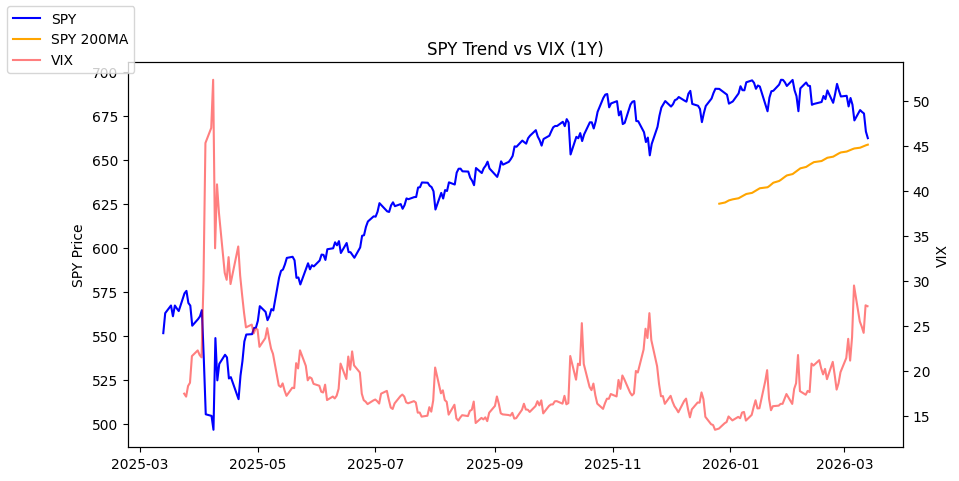
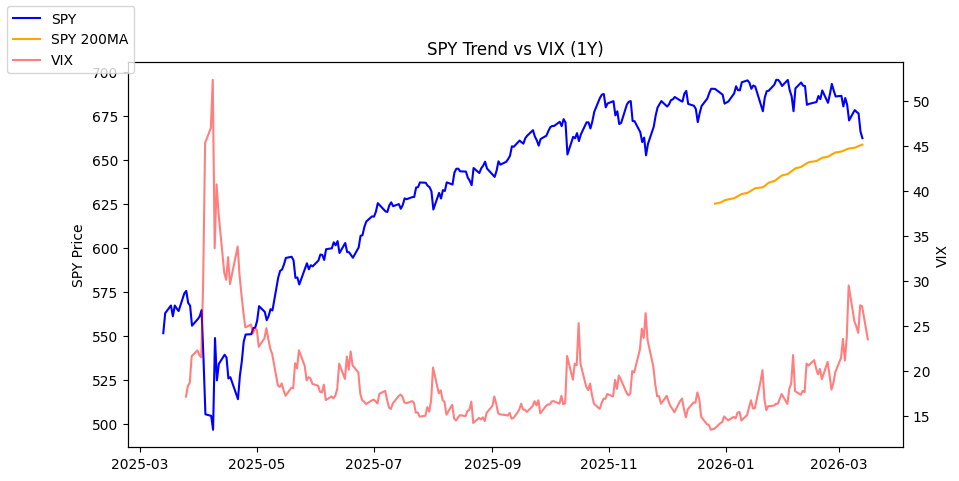
Update market summary

diff --git a/README.md b/README.md
@@ -1,12 +1,14 @@
 
 # Market Risk Monitor
 
+![Status](https://img.shields.io/badge/Market%20Regime-yellow-yellow)
+
 ⚠ **Disclaimer**
 
 This project is an experimental data pipeline and educational demonstration.
 It is **not financial advice**. The signals and AI commentary are generated
 automatically from public market data and may be incomplete, delayed, or
-incorrect. Do not make investment decisions based upon any data, display, words or summary in this repository.
+incorrect. Do not make investment decisions based solely on this repository.
 
 Last Updated: 2026-03-17
 
@@ -15,22 +17,19 @@ Last Updated: 2026-03-17
 
 ## AI Risk Commentary
 
-Risk commentary:
-Market shows mixed signals—large-cap broad market (SPY) remains marginally above its 200-day average, which is a constructive sign, but momentum wanes in growth/tech (QQQ below its 100-day MA) and volatility is elevated (VIX > 25). Elevated VIX points to meaningful investor uncertainty and a higher probability of near-term intraday or multi-day swings. Position sizing and stop discipline are advisable; consider reducing exposure to high-volatility or highly beta-sensitive names and keep some dry powder or hedges in place until clearer trend confirmation.
+Risk commentary
+The market shows mixed technical signals that increase short-term uncertainty. SPY is only slightly above its 200-day moving average (662.29 vs. 658.6), suggesting the large-cap trend is just marginally bullish but vulnerable to a pullback. QQQ trading materially below its 100-day MA (593.72 vs. 614.82) points to relative weakness in large-cap growth/tech, increasing the risk of sector-led volatility. VIX at 23.51 sits between calm and elevated territory—neither low enough to signal complacency nor high enough to indicate panic—so expect sporadic spikes in realized volatility. ARKK’s 3-month decline (-14.39%) highlights continued risk appetite divergence and potential for concentrated, idiosyncratic drawdowns in active/innovation-focused strategies. Overall, positioning should remain cautious: consider trimming risk exposures, keeping liquid buffers, and using disciplined risk controls (stops, position sizing, or hedges) until clearer trend confirmation emerges.
 
-Market summary (bullets):
-- Regime label: 🟡 Mixed Signals.
-- SPY: price 662.29 vs 200-day MA 658.6 — slightly above the 200MA (bullish bias but marginal).
-- QQQ: price 593.72 vs 100-day MA 614.82 — below the 100MA (loss of short-to-intermediate-term momentum for tech).
-- ARKK: 3-month change -14.39% — notable recent weakness in thematic/innovation exposure.
-- VIX: 27.19 — elevated volatility (>25) signaling increased risk/appetite for protection.
-- Combined view: defensive caution—broad-market trend intact but leadership and momentum are mixed; prefer selective exposure, tighter risk controls, and use of hedges or cash.
+Market summary (bullets)
+- SPY: 662.29, slightly above 200‑day MA 658.6 — marginally bullish on the large-cap index but close to a key support level.  
+- QQQ: 593.72, below 100‑day MA 614.82 — tech/growth looks weak relative to broader market; potential headwind for risk assets.  
+- ARKK: -14.39% over 3 months — continued notable drawdown for innovation-focused active exposure.  
+- VIX: 23.51 — intermediate volatility environment (neither low nor extreme), watch for episodic spikes.  
+- Regime label: 🟡 Mixed Signals — conflicting breadth/sector technicals warrant cautious positioning and active risk management.
 
-Raw data files referenced:
-- /data/SPY.json
-- /data/QQQ.json
-- /data/ARKK.json
-- /data/VIX.json
+Raw data files
+- /data/signals.json
+- /data/snapshot.json
 
 ## Market Charts
 
@@ -45,3 +44,6 @@ Raw data files referenced:
 
 ## Raw Signals
 [data/signals.json](data/signals.json)
+
+## History
+[data/history.json](data/history.json)
